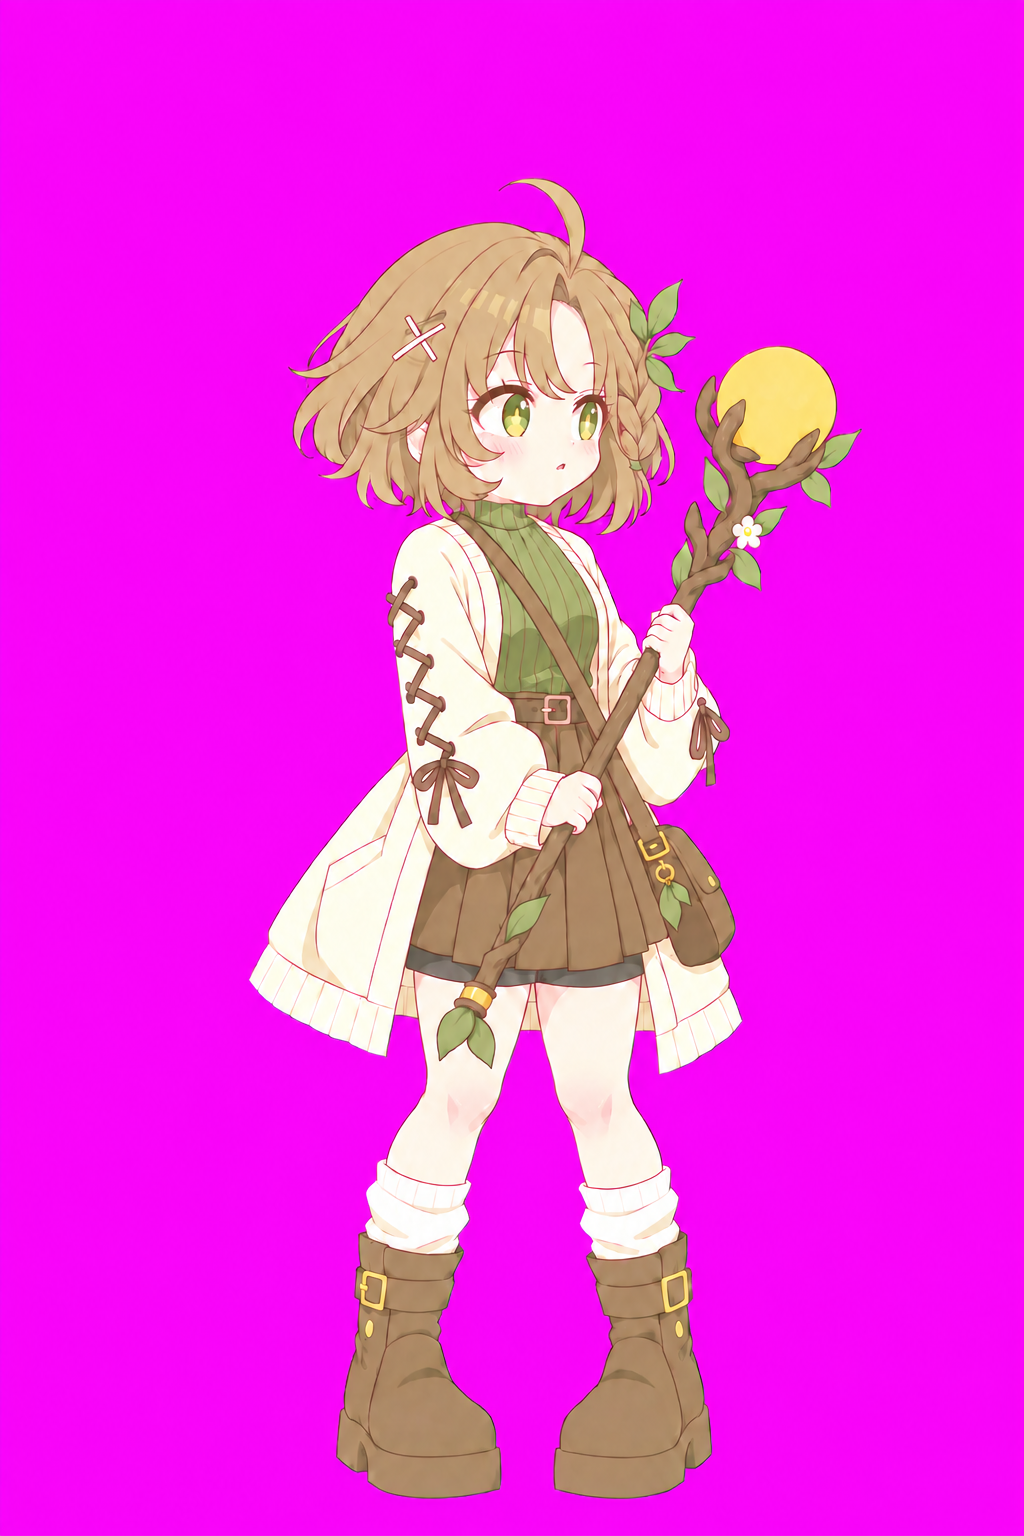
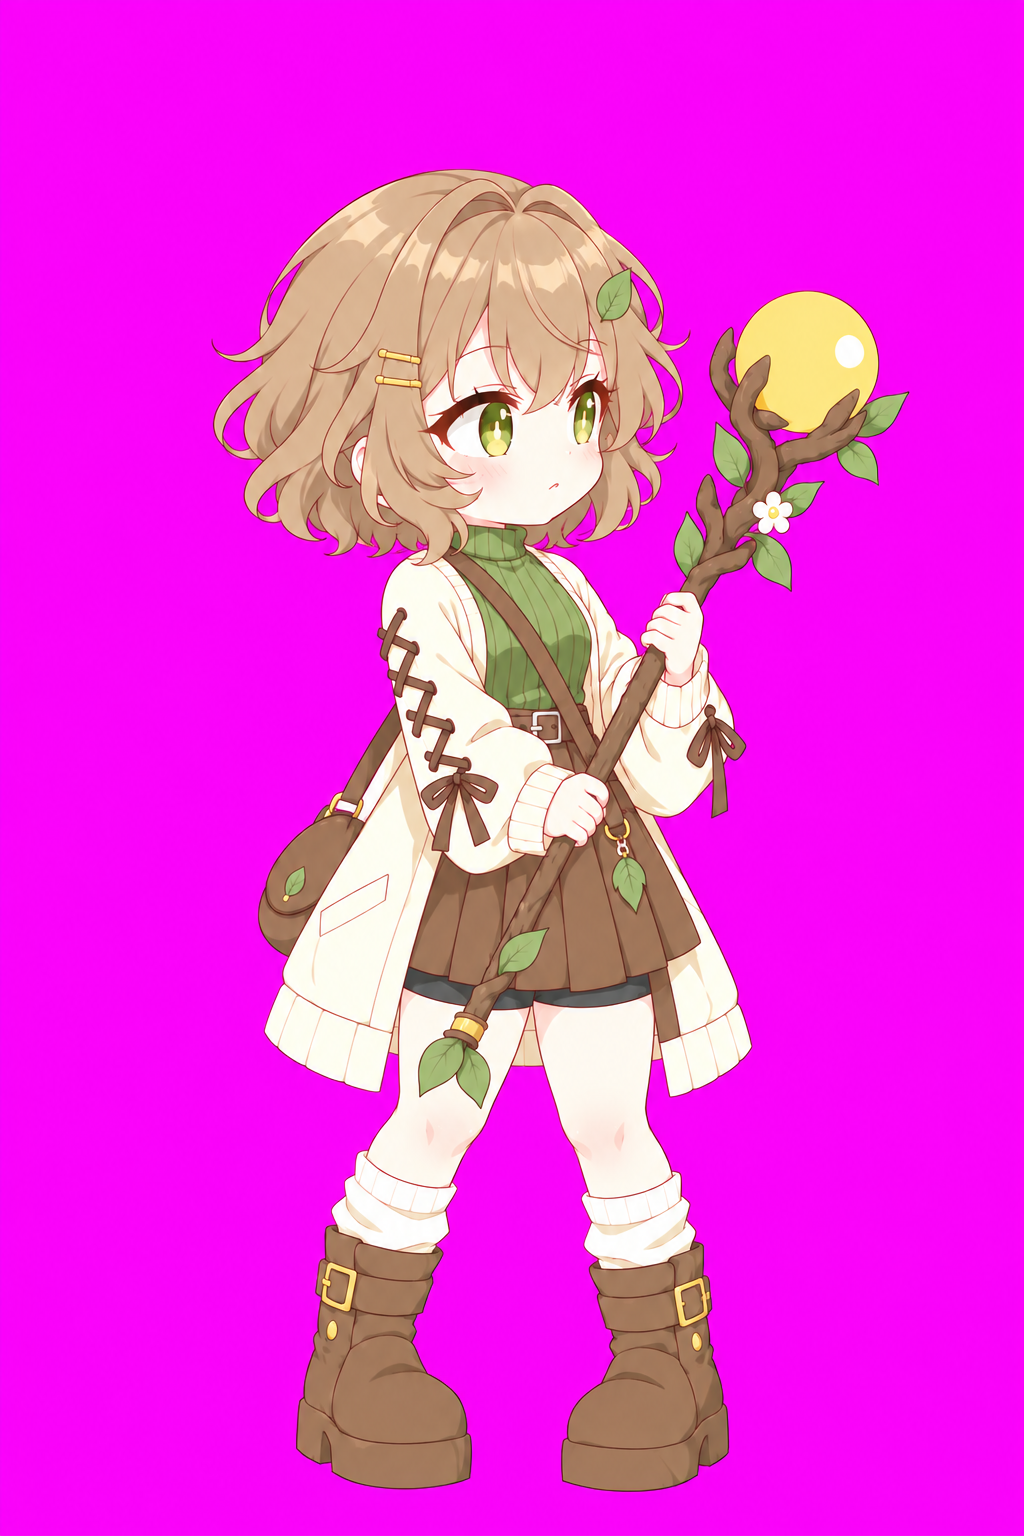
feat(art,#548): 강지 LD 초상·SD 전투 14컷을 새 그림체로 교체
- 초상: 승인된 v4 원본을 normalize_portrait 로 정규화(918×1650, 인물 92%), 얼굴 범위 재측정
- SD: 원화 14장을 source-plates 에 넣고 prepare_animation_frames → build_battle_frames 로 재조립
- 정지 스프라이트 char_gangji_battle.png = 새 idle_0, frame-index.csv SHA 갱신
- VerifyBattleSprites: 초상 크기 941×1691 고정 대신 캔버스 비율(0.5566)을 검사
- 원본·프롬프트는 art/character-assets/v3-548/ 에 보관

Changed region(s): [[0.1875, 0.0938, 0.9062, 0.9688], [0.375, 0.9062, 0.5, 1.0], [0.5312, 0.9062, 0.6562, 1.0]]

diff --git a/art/character-assets/v3-548/README.md b/art/character-assets/v3-548/README.md
@@ -1,0 +1,35 @@
+# 강지 새 그림체 — #548
+
+하랑·미나·설아·태희와 그림체를 맞춘 강지의 LD 초상 1장과 SD 전투 원화 14장이다.
+디자인(갈색 웨이브 단발, 나뭇잎 핀, 크림 카디건, 갈색 치마, 노란 구슬 나무 지팡이)은 유지했다.
+
+| 파일 | 내용 |
+|---|---|
+| `gangji_portrait_source.png` | 승인된 v4 초상 원본(1024×1536, 투명 배경). 게임용은 정규화본 |
+| `gangji_sd_prompts.json` | 초상·SD 14컷 생성 프롬프트(내장 image_gen) |
+| `gangji_sd_repairs.json` | attack_1·attack_2 발 위치 교정 프롬프트 |
+| `gangji_validation.json` | 제작 쪽 검증값(해상도·모서리 색·SHA-256) |
+
+SD 원화 14장은 `art/battle-animation/source-plates/gangji/` 에 들어 있다.
+
+## 게임에 넣은 경로
+
+```sh
+# 초상: 92% 인물 높이 · 비율 0.5566 캔버스로 정규화(리샘플링 없음 → 918×1650)
+godot --headless --path . --script res://tools/normalize_portrait.gd -- res://assets/sprites/characters/portraits/gangji.png
+# SD: 자홍 배경 제거 · 224×336 축소 · 밑변 맞춤
+python tools/prepare_animation_frames.py art/battle-animation/manifest.json --unit=gangji
+cp assets/sprites/characters/battle/frames/gangji/idle_0.png assets/sprites/characters/battle/char_gangji_battle.png
+godot --headless --path . --editor --import --quit
+godot --headless --path . --script tools/build_battle_frames.gd
+```
+
+- 얼굴 범위 `data/portraits/portrait_meta.tres` 의 `gangji` 를 새 초상에 맞춰 다시 쟀다.
+- 원화의 자홍 배경이 고르지 않고(R/B 231~241, G 13~16) attack_1·2 발이 30~60px 떠 있었지만,
+  처리 도구가 색 허용 범위로 배경을 빼고 가장 낮은 점을 밑변에 붙이므로 따로 고치지 않았다.
+- 대기 실루엣 높이 290px(224×336 칸) — 다른 아군 278~292px 범위 안이다.
+
+## 남은 것
+
+- 4방향 워크 시트(`assets/sprites/characters/gangji_walk_frames.tres`)는 예전 그림체 그대로다.
+- 오의 LD 클립(#546/#549)은 예전 초상 기준이라 #549 에서 새 초상으로 다시 만든다.

diff --git a/art/battle-animation/README.md b/art/battle-animation/README.md
@@ -58,3 +58,9 @@ godot --headless --path . res://tests/combat/VerifyTurnStageBattle.tscn
 ## 검수 상태
 
 2026-09-12: 12체 / 168 PNG / 12 SpriteFrames 제작·연결 및 검수 완료. [최종 검수 보고서와 캐릭터별 비교표](VERIFICATION.md), [파일·크기·SHA-256 목록](frame-index.csv)을 확인할 수 있다.
+
+## #548 강지 그림체 교체 (2026-10-04)
+
+강지 14컷을 새 그림체 원화로 교체했다(`source-plates/gangji/`). 같은 도구로 다시 조립했고 처리 규칙은 바꾸지 않았다.
+원본·프롬프트는 [`../character-assets/v3-548/`](../character-assets/v3-548/README.md)에 있다.
+manifest 의 강지 `prompt` 는 #533 당시 문구로 남아 있으니, 새 원화의 생성 문구는 위 폴더의 `gangji_sd_prompts.json` 을 본다.
